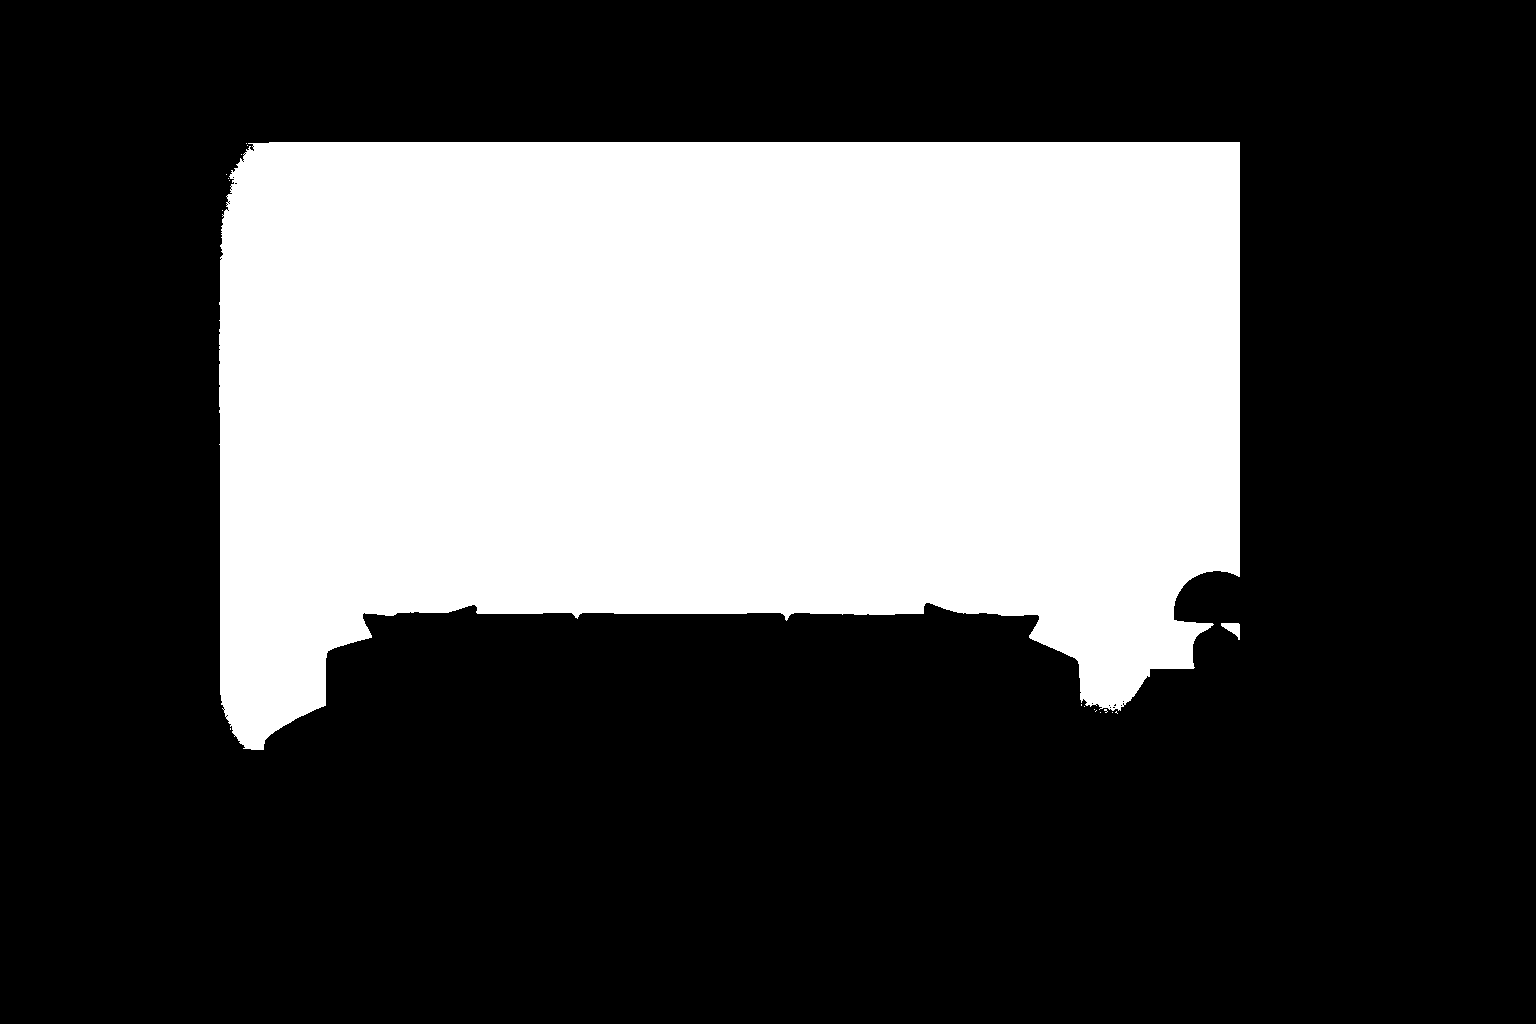
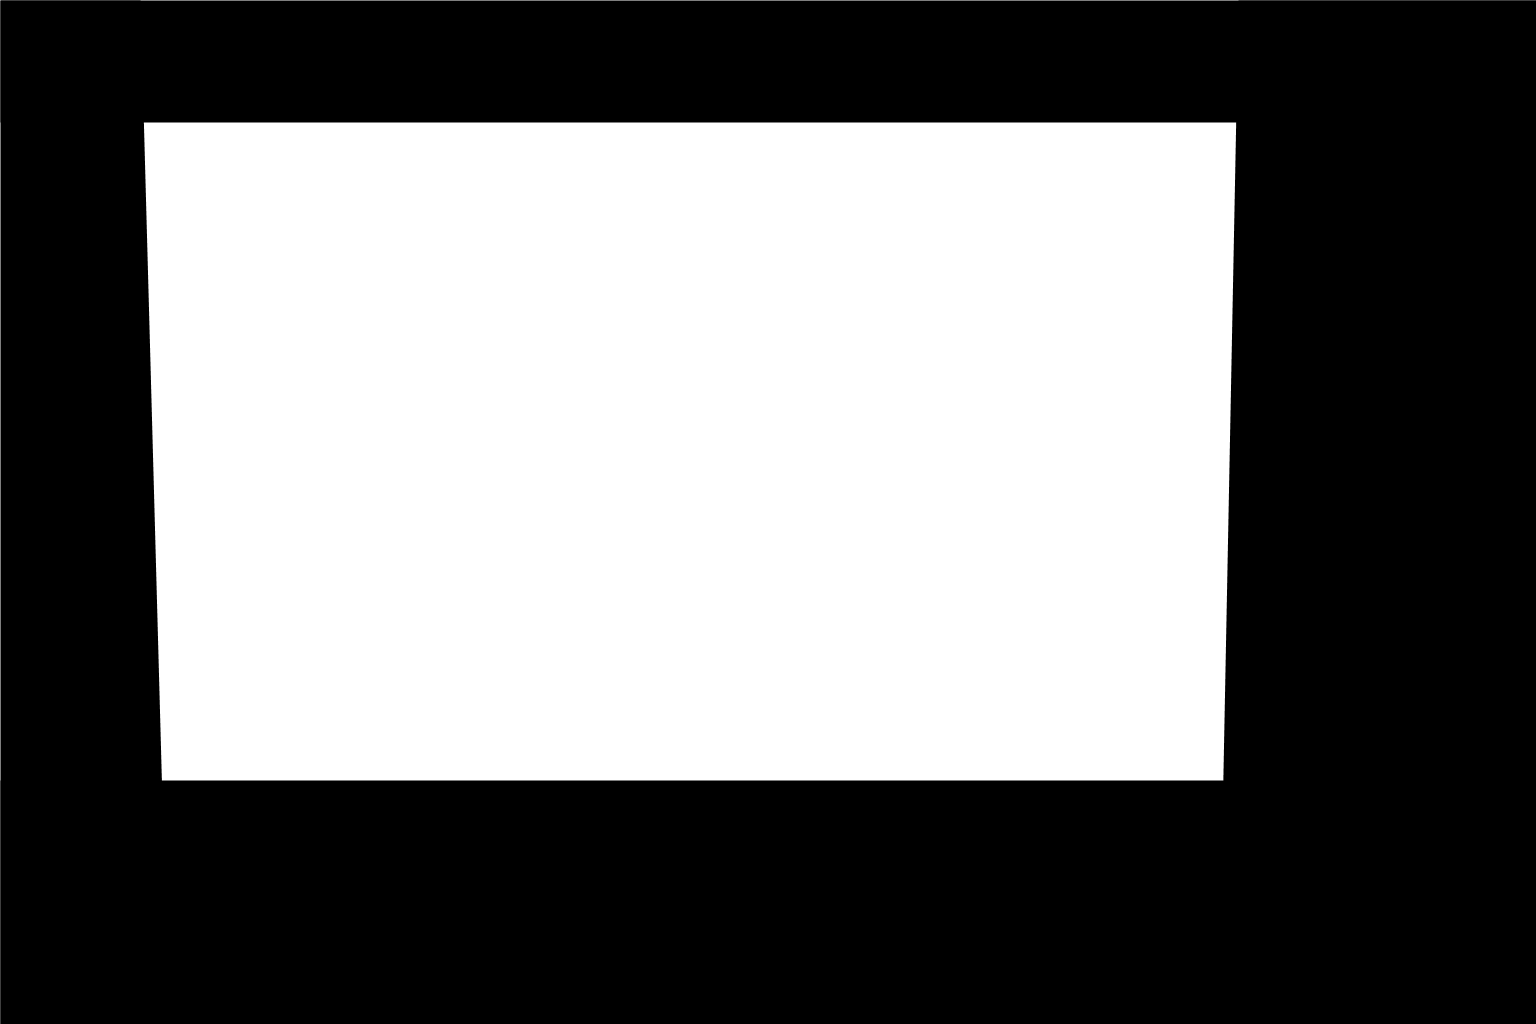
Corregir mascaras de pared del visualizador

Changed region(s): [[0.0938, 0.0938, 0.8125, 0.7812]]

diff --git a/frontend/visualizador-landing.jsx b/frontend/visualizador-landing.jsx
@@ -16,34 +16,7 @@
       shadowMaskUrl: '',
       shadowMaskMode: 'luma',
       projectionMode: 'wall',
-      occluderShapes: [
-        { kind: 'rect', x: 469, y: 226, width: 142, height: 157, radius: 4, feather: 2 },
-        { kind: 'rect', x: 0, y: 66, width: 102, height: 496, feather: 14 },
-        {
-          kind: 'ellipse',
-          cx: 122,
-          cy: 364,
-          rx: 82,
-          ry: 142,
-          rotation: -8,
-          feather: 10
-        },
-        {
-          kind: 'polygon',
-          points: [
-            [171, 404], [204, 392], [289, 390], [360, 394], [452, 392], [552, 393],
-            [641, 390], [706, 398], [738, 411], [742, 531], [171, 531]
-          ],
-          feather: 10
-        },
-        {
-          kind: 'polygon',
-          points: [
-            [132, 481], [148, 465], [175, 447], [196, 447], [205, 472], [207, 530], [129, 530]
-          ],
-          feather: 8
-        }
-      ],
+      occluderShapes: [],
       defaults: { scale: 100, rotation: 0, offsetX: 0, offsetY: 0, opacity: 88, lighting: 35 }
     },
     {

diff --git a/lib/visualizador-common.js b/lib/visualizador-common.js
@@ -28,34 +28,7 @@ export const TEMPLATES = [
     shadowMaskUrl: '',
     shadowMaskMode: 'luma',
     projectionMode: 'wall',
-    occluderShapes: [
-      { kind: 'rect', x: 469, y: 226, width: 142, height: 157, radius: 4, feather: 2 },
-      { kind: 'rect', x: 0, y: 66, width: 102, height: 496, feather: 14 },
-      {
-        kind: 'ellipse',
-        cx: 122,
-        cy: 364,
-        rx: 82,
-        ry: 142,
-        rotation: -8,
-        feather: 10
-      },
-      {
-        kind: 'polygon',
-        points: [
-          [171, 404], [204, 392], [289, 390], [360, 394], [452, 392], [552, 393],
-          [641, 390], [706, 398], [738, 411], [742, 531], [171, 531]
-        ],
-        feather: 10
-      },
-      {
-        kind: 'polygon',
-        points: [
-          [132, 481], [148, 465], [175, 447], [196, 447], [205, 472], [207, 530], [129, 530]
-        ],
-        feather: 8
-      }
-    ],
+    occluderShapes: [],
     defaults: { scale: 100, rotation: 0, offsetX: 0, offsetY: 0, opacity: 88, lighting: 35 },
     maskFile: 'wall-mask.png',
     imageFile: 'wall-original.png'